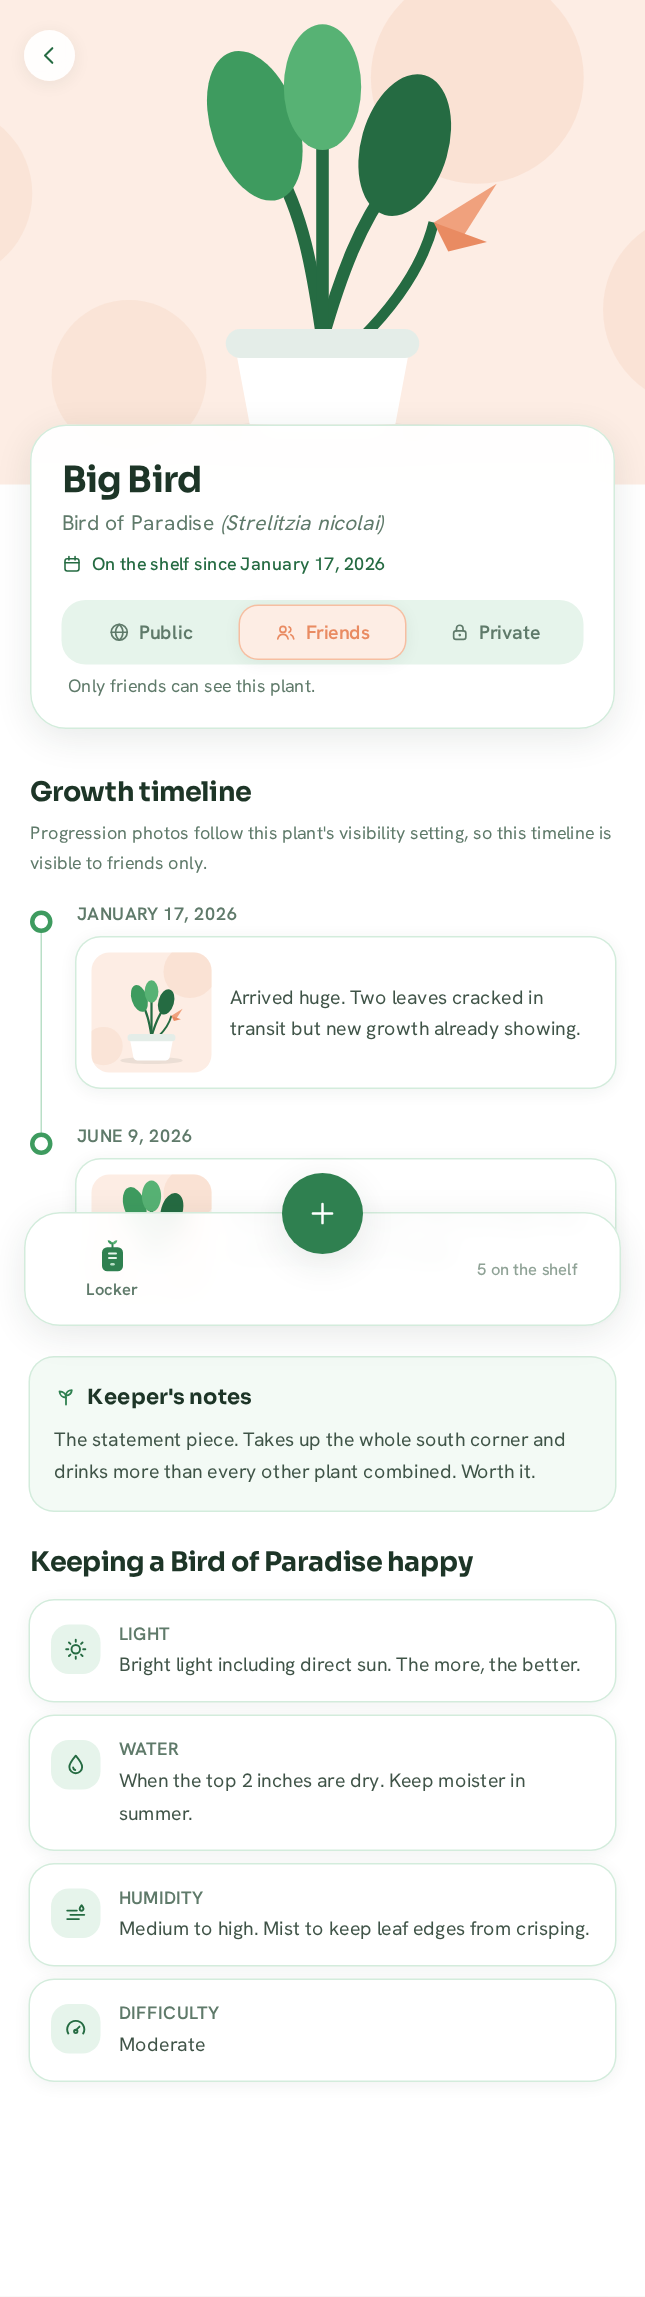
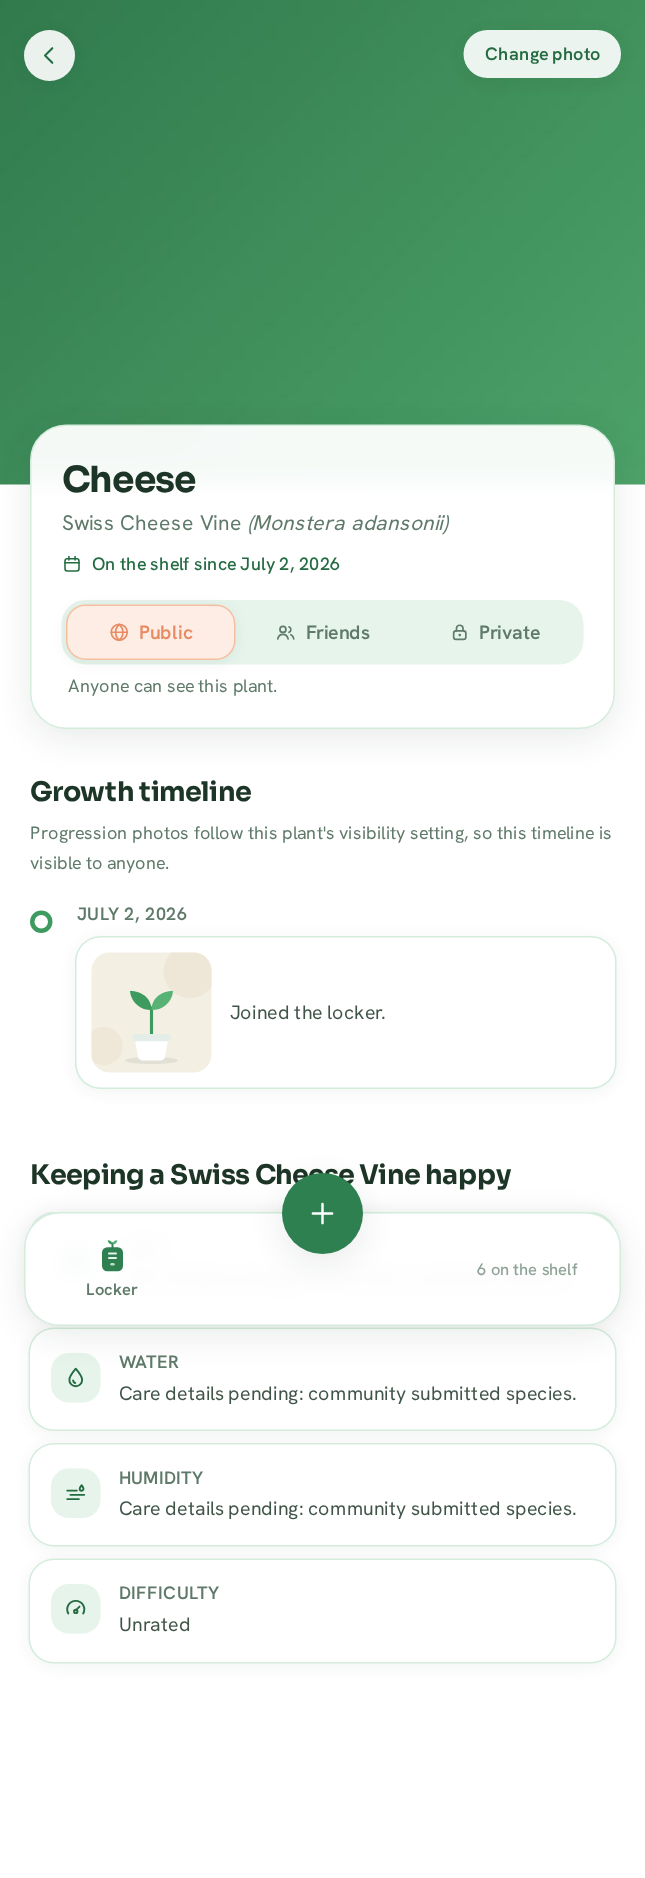
docs: milestone 2 notes and refreshed screenshots

diff --git a/BUILD_NOTES.md b/BUILD_NOTES.md
@@ -1,8 +1,55 @@
 # Plant Locker: Build Notes
 
-Built 2026-07-02. Scope was the personal locker only: no feed, no
-social, no other users. Everything below is so you can pick this up
+Built 2026-07-02. Two milestones so far: the personal locker, then
+the social-foundation skeleton (accounts, persistence, photos,
+community directory). Everything below is so you can pick this up
 cold in the morning.
+
+## Milestone 2: social foundation (added same day)
+
+Direction from kickoff: no Supabase account yet, so build the
+skeleton that will plug into it; foundation first; real photos now;
+species verification fully automatic.
+
+**What's real:**
+
+- Login / signup / sign out with persistent sessions. Multiple
+  accounts per browser, each with its own locker.
+- Full persistence: plants, privacy changes, photos, and community
+  species all survive refresh (localStorage under `plant-locker:v1`).
+- Real photo uploads, downscaled in-browser to ~900px JPEG before
+  storing. SVG illustrations remain the fallback everywhere.
+- Community species submissions with fully automatic verification:
+  binomial-name sanity check + directory dedupe, then instantly
+  published and selectable, labeled "community" in the picker.
+- Designed empty state with an example-shelf loader for new accounts.
+
+**What's stubbed (and where the real thing goes):**
+
+- `src/api/backend.js` is the single seam. Every function carries a
+  SUPABASE: note with the call that replaces it. Feed, explore, and
+  follows exist as stubs returning empty results.
+- The species verifier is a local stand-in. The real one is a
+  Supabase Edge Function calling the Claude API to confirm the
+  species exists, normalize the name, dedupe, and draft care info.
+  Submitted species meanwhile get "care details pending" placeholders,
+  never invented care facts.
+- Browser-local auth is honest about itself (the auth screen says so).
+  Passwords are salted + SHA-256 hashed, but this is not real
+  security; Supabase Auth is.
+- localStorage holds ~5MB: roughly 30 to 60 photos. Fine for the
+  skeleton, another reason storage moves server-side.
+
+**New TODOs in code:**
+
+- `src/api/backend.js` submitSpecies: swap stub for Claude edge
+  function; draft real care info.
+- `src/components/PhotoInput.jsx`: hand blobs to Supabase Storage
+  instead of data URLs.
+
+**To go live with the real backend you will need:** a Supabase
+account (free tier), an Anthropic API key for verification, and a
+privacy policy + moderation story before strangers sign up.
 
 ## What's real (working now)
 

diff --git a/README.md b/README.md
@@ -1,9 +1,12 @@
 # Plant Locker
 
-A front-end-only mobile web app: your personal shelf of named plants.
-Single user, no backend, no auth, no database, no persistence. The whole
-UI is constrained to a centered ~430px column so it reads as a phone
-app in a desktop browser.
+A front-end-only mobile web app: your personal shelf of named plants,
+now with browser-local accounts, persistence, photo uploads, and a
+community species directory. No server yet: everything runs on a
+localStorage backend shaped like the Supabase backend that will
+replace it (see `src/api/backend.js`). The whole UI is constrained to
+a centered ~430px column so it reads as a phone app in a desktop
+browser.
 
 **Live demo:** https://crossfiber.github.io/plant-locker/
 
@@ -29,15 +32,25 @@ production bundle.
 
 ## Screens
 
-1. **Locker**: your shelf as a grid with the newest plant featured
+1. **Login / signup**: browser-local accounts (salted + hashed, but
+   demo-grade; real auth arrives with Supabase). Sessions persist.
+2. **Locker**: your shelf as a grid with the newest plant featured
    wide at the top, plus collection stats written as a sentence.
-   Tap any plant to open it.
-2. **Add Plant** (center + button): searchable species picker (18
-   seeded species), nickname, acquired date, optional note. Saving
-   drops the plant into the locker (in-session state only).
-3. **Plant page**: large cover, identity, working Public / Friends /
-   Private toggle, dated growth timeline, keeper's notes, and the
-   species care block.
+   Empty shelves get a designed empty state with an example-shelf
+   loader. Tap any plant to open it.
+3. **Add Plant** (center + button): searchable species picker (18
+   seeded species plus community submissions), optional real photo
+   (downscaled in the browser), nickname, acquired date, note.
+   Can't find the species? Submit it to the directory and it's
+   auto-verified on the spot (local stub for the future Claude call).
+4. **Plant page**: photo or illustrated cover, identity, working
+   Public / Friends / Private toggle, dated growth timeline,
+   keeper's notes, and the species care block.
+
+## Roadmap (next milestones)
+
+Feed, explore, and the follower system are stubbed in
+`src/api/backend.js` and land once the Supabase project exists.
 
 ## Mock data
 